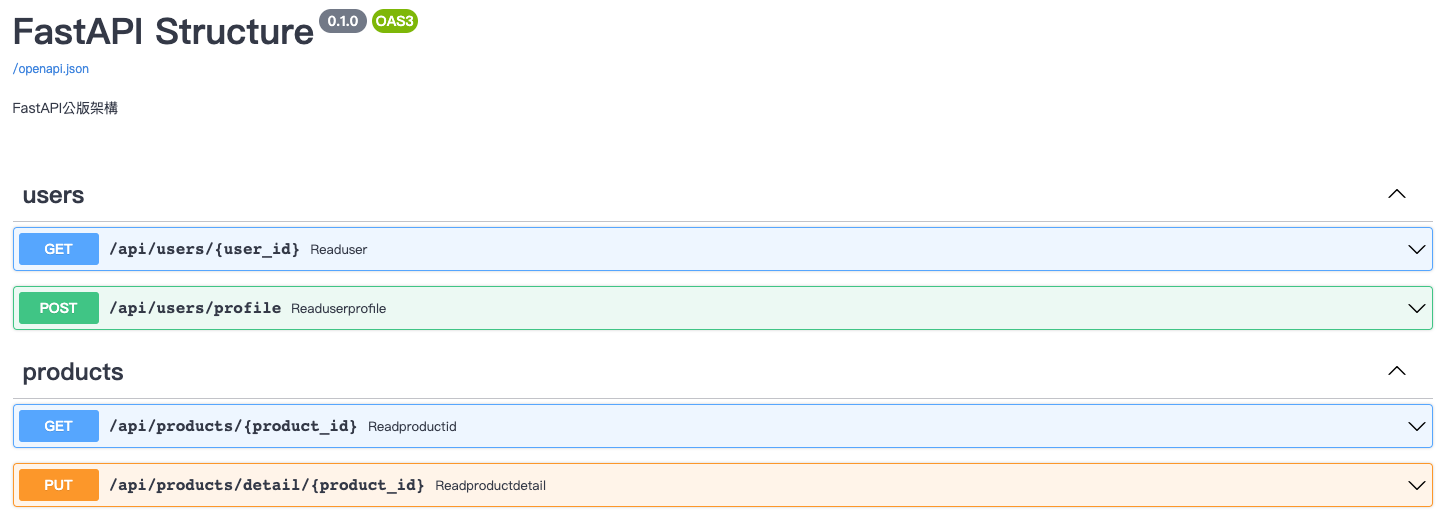
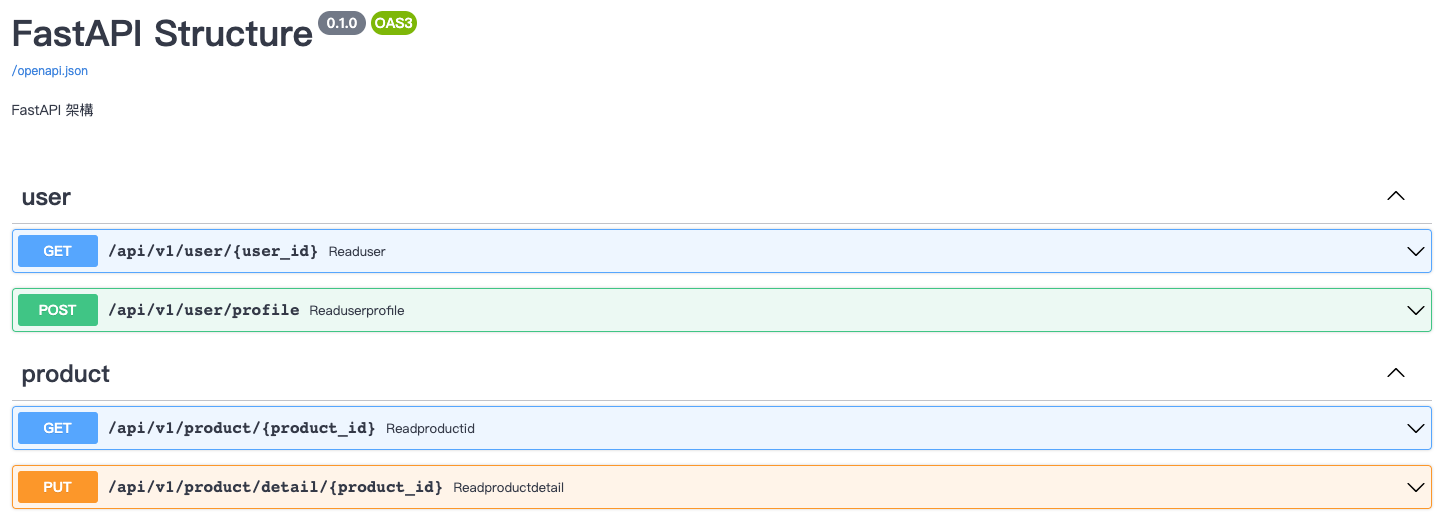
update images

diff --git a/config.py b/config.py
@@ -1,6 +1,6 @@
 import os
 
 APP_TITLE="FastAPI Structure"
-APP_DESCRIPION="FastAPI公版架構"
+APP_DESCRIPION="FastAPI 架構"
 ALLOW_ORIGINS=os.getenv("ALLOW_ORIGINS", "http://0.0.0.0:3333")
 TEST=os.getenv("TEST", "NO MONEY")
